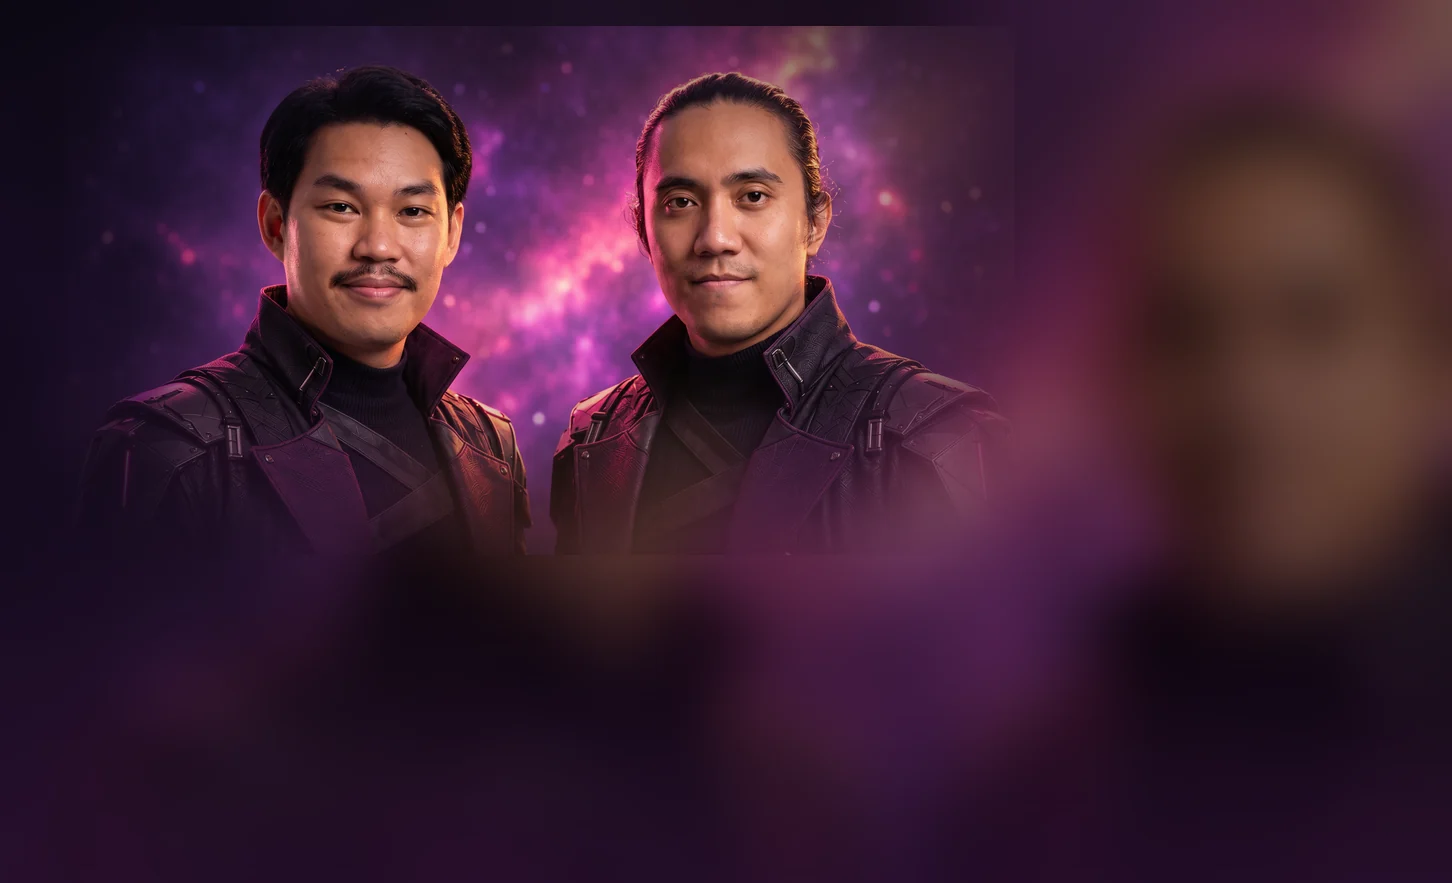
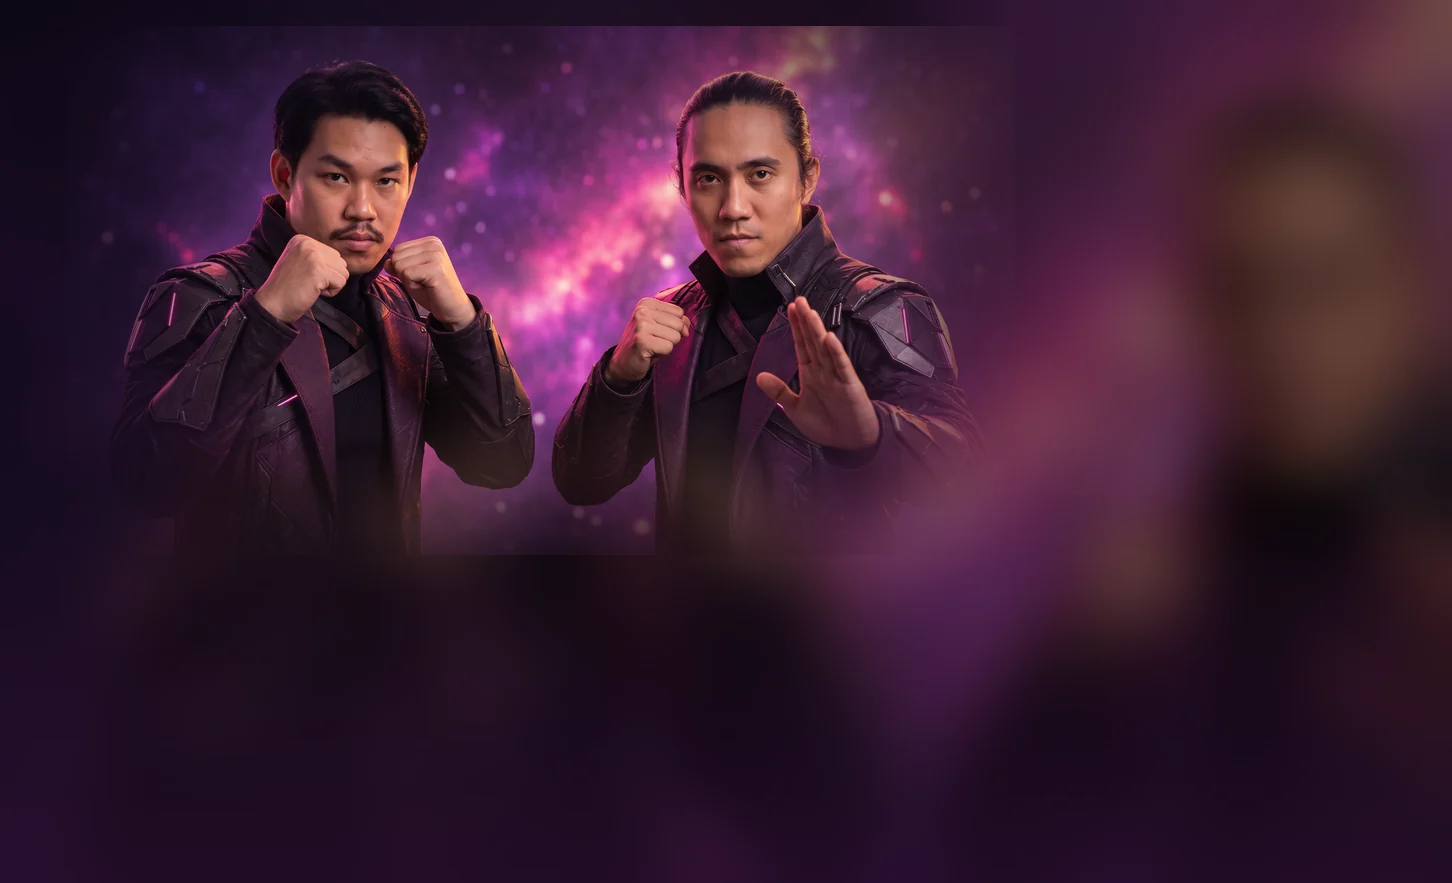
Card 27-28: action-pose big art
Claude-Session: https://claude.ai/code/session_01QpfYAiXFaQHcA12hC36bw4

diff --git a/index.html b/index.html
@@ -1579,7 +1579,7 @@
     $('phQuote').textContent=main?first.quote:'Different expertises, one ecosystem.';
     document.querySelectorAll('.hc').forEach(function(x){x.classList.toggle('is-on',Number(x.dataset.hero)===slot)});
     if(window.fcuHeroPage){var hc=document.querySelector('.hc[data-hero="'+slot+'"]');window.fcuHeroPage(Number(hc&&hc.dataset.pg||0));}
-    var art=document.querySelector('.ph-art'); if(art){art.style.backgroundImage="linear-gradient(90deg,rgba(8,4,18,.6) 0,rgba(8,4,18,0) 32%,rgba(8,4,18,0) 58%,rgba(8,4,18,.55) 100%),linear-gradient(180deg,rgba(8,4,18,0) 55%,rgba(8,4,18,.7) 100%),url('heroes/big/p"+String(slot+1).padStart(2,'0')+".webp?v=7')";art.setAttribute('aria-label',name);}
+    var art=document.querySelector('.ph-art'); if(art){art.style.backgroundImage="linear-gradient(90deg,rgba(8,4,18,.6) 0,rgba(8,4,18,0) 32%,rgba(8,4,18,0) 58%,rgba(8,4,18,.55) 100%),linear-gradient(180deg,rgba(8,4,18,0) 55%,rgba(8,4,18,.7) 100%),url('heroes/big/p"+String(slot+1).padStart(2,'0')+".webp?v=8')";art.setAttribute('aria-label',name);}
     $('phSignName').textContent=name; $('phSignRole').textContent=role; var LG={1:'adsventure',2:'bersinema',6:'unexplnd',14:'lrcreative',23:'oxygen',16:'holyflux',17:'pravia',8:'ssmedia',25:'getcore',22:'impressive'}, lg=$('phSignLogo'); if(lg){ if(LG[slot]){lg.src='hero-logos/'+LG[slot]+'.webp?v=2';lg.alt=role;lg.style.display='block';} else {lg.removeAttribute('src');lg.style.display='none';} }
   };
   document.addEventListener('click',function(e){
